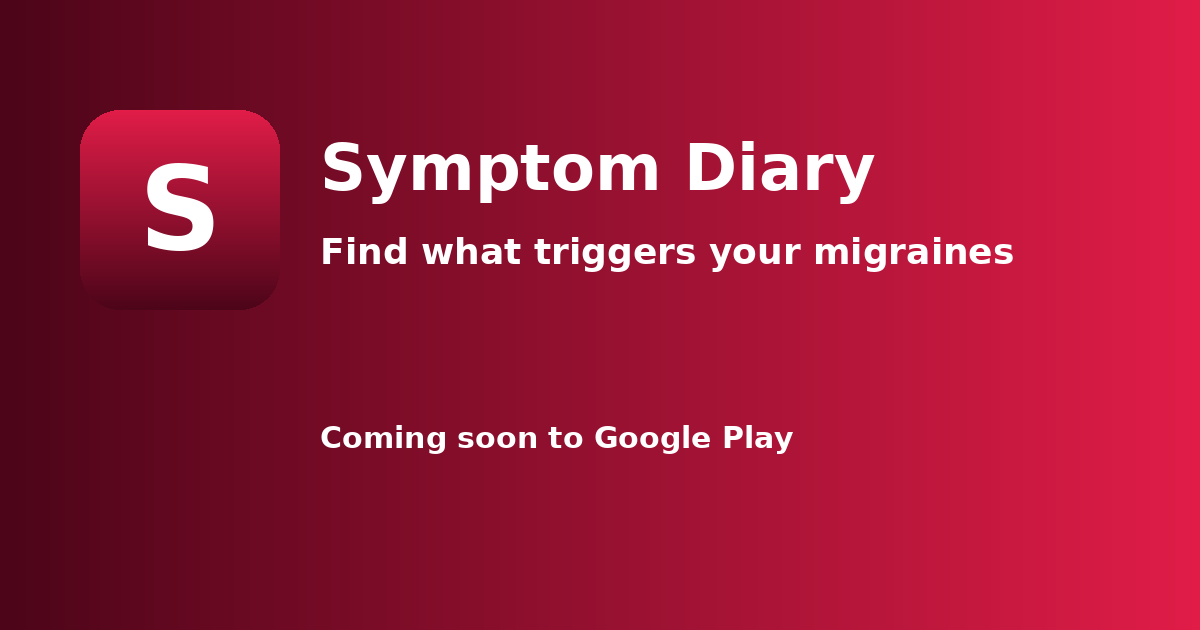
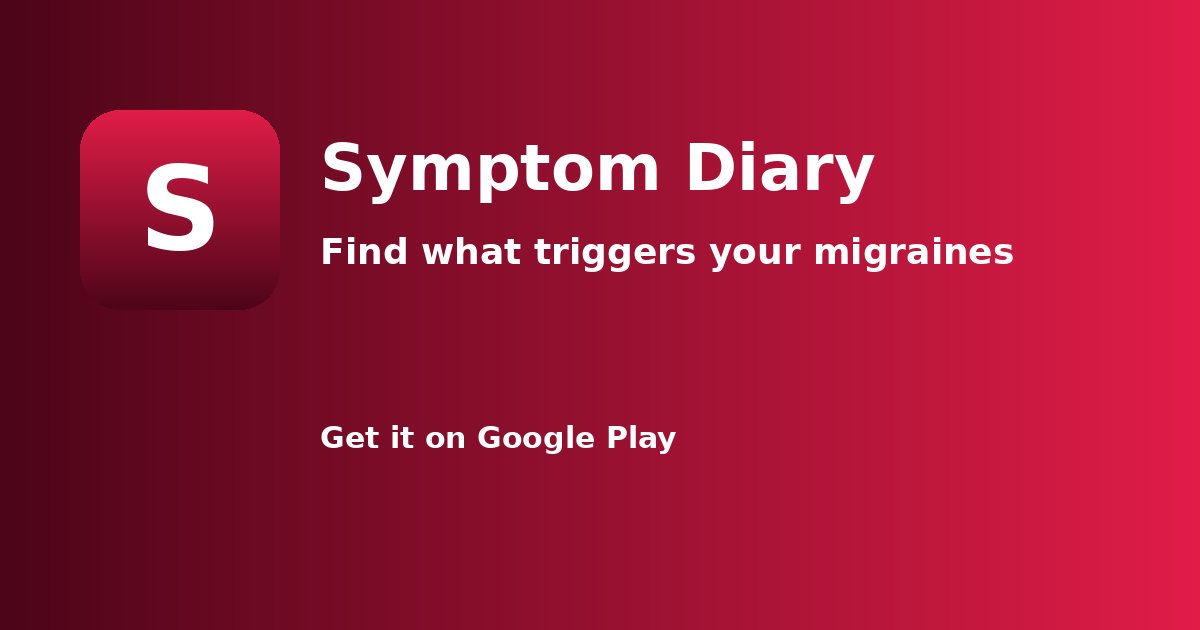
Add Get it on Google Play badge

Changed region(s): [[0.2775, 0.6635, 0.6783, 0.7238]]

diff --git a/index.html b/index.html
@@ -6,7 +6,7 @@
 <body><a class="skip" href="#main">Skip to content</a>
 <header class="top"><div class="wrap nav"><a class="brand" href="/symptom-diary-site/"><img src="/symptom-diary-site/img/icon-192.png" alt="" width="36" height="36"><span>Symptom Diary</span></a>
 <nav aria-label="Main"><a href="/symptom-diary-site/#features">Features</a><a href="/symptom-diary-site/#how">How it works</a><a href="/symptom-diary-site/#privacy">Privacy</a><a href="/symptom-diary-site/#faq">FAQ</a><a class="hide-sm" href="/symptom-diary-site/support/">Support</a></nav></div></header>
-<main id="main"><section class="hero"><div class="wrap"><div class="copy"><span class="kicker">Migraine and IBS diary</span><h1>Log it in one tap. See the pattern.</h1><p class="lede">Designed for mid-migraine use: big buttons, no typing. Log episodes, pain, triggers and medication, correlate them with your sleep and steps from Health Connect, and hand your doctor a clean PDF.</p><div class="ctas"><span class="btn soon" aria-label="Coming soon to Google Play"><span>Coming soon</span><small>to Google Play</small></span><a class="btn ghost" href="/symptom-diary-site/#features">See what it does</a></div></div>
+<main id="main"><section class="hero"><div class="wrap"><div class="copy"><span class="kicker">Migraine and IBS diary</span><h1>Log it in one tap. See the pattern.</h1><p class="lede">Designed for mid-migraine use: big buttons, no typing. Log episodes, pain, triggers and medication, correlate them with your sleep and steps from Health Connect, and hand your doctor a clean PDF.</p><div class="ctas"><a class="badge" href="https://play.google.com/store/apps/details?id=com.chartmann.symptomdiary" rel="noopener"><img src="/symptom-diary-site/img/play-badge.png" alt="Get it on Google Play" width="216" height="64"></a><a class="btn ghost" href="/symptom-diary-site/#features">See what it does</a></div></div>
 <div class="art"><img src="/symptom-diary-site/img/hero.png" alt="" width="520" height="520"></div></div></section>
 <section class="sec" id="features"><div class="wrap"><h2>What it does</h2><p class="sub">Generic health apps don&#x27;t correlate episodes with triggers. This one does, on your phone.</p><div class="grid"><div class="card"><div class="ic" aria-hidden="true"><svg width="26" height="26" viewBox="0 0 24 24" fill="none" stroke="currentColor" stroke-width="2" stroke-linecap="round" stroke-linejoin="round"><path d="M9 11V6a3 3 0 0 1 6 0v5"/><path d="M15 11V9a3 3 0 0 1 6 0v6a7 7 0 0 1-7 7h-1a7 7 0 0 1-7-7v-2a3 3 0 0 1 6 0"/><path d="M9 11a3 3 0 0 0-6 0v1"/></svg></div><h3>One-tap logging</h3><p>Big buttons for episode start and end, pain level, triggers and medication. Zero typing when it hurts.</p></div><div class="card"><div class="ic" aria-hidden="true"><svg width="26" height="26" viewBox="0 0 24 24" fill="none" stroke="currentColor" stroke-width="2" stroke-linecap="round" stroke-linejoin="round"><path d="M10 13a5 5 0 0 0 7.54.54l3-3a5 5 0 0 0-7.07-7.07l-1.72 1.71"/><path d="M14 11a5 5 0 0 0-7.54-.54l-3 3a5 5 0 0 0 7.07 7.07l1.71-1.71"/></svg></div><h3>Trigger correlation</h3><p>&quot;Your episodes follow poor sleep 68% of the time&quot;: simple on-device statistics, no cloud.</p></div><div class="card"><div class="ic" aria-hidden="true"><svg width="26" height="26" viewBox="0 0 24 24" fill="none" stroke="currentColor" stroke-width="2" stroke-linecap="round" stroke-linejoin="round"><path d="M12 3a6 6 0 0 0 9 9 9 9 0 1 1-9-9Z"/></svg></div><h3>Health Connect</h3><p>Read your sleep and steps from Health Connect with your permission to correlate them with episodes.</p></div><div class="card"><div class="ic" aria-hidden="true"><svg width="26" height="26" viewBox="0 0 24 24" fill="none" stroke="currentColor" stroke-width="2" stroke-linecap="round" stroke-linejoin="round"><line x1="18" y1="20" x2="18" y2="10"/><line x1="12" y1="20" x2="12" y2="4"/><line x1="6" y1="20" x2="6" y2="14"/><line x1="3" y1="20" x2="21" y2="20"/></svg></div><h3>Charts</h3><p>Episode frequency, severity trends and medication effectiveness over time.</p></div><div class="card"><div class="ic" aria-hidden="true"><svg width="26" height="26" viewBox="0 0 24 24" fill="none" stroke="currentColor" stroke-width="2" stroke-linecap="round" stroke-linejoin="round"><path d="M14.5 2H6a2 2 0 0 0-2 2v16a2 2 0 0 0 2 2h12a2 2 0 0 0 2-2V7.5L14.5 2z"/><polyline points="14 2 14 8 20 8"/><line x1="8" y1="13" x2="16" y2="13"/><line x1="8" y1="17" x2="16" y2="17"/></svg></div><h3>Doctor-ready PDF</h3><p>Export a clean summary for appointments.</p></div><div class="card"><div class="ic" aria-hidden="true"><svg width="26" height="26" viewBox="0 0 24 24" fill="none" stroke="currentColor" stroke-width="2" stroke-linecap="round" stroke-linejoin="round"><path d="M11 20A7 7 0 0 1 9.8 6.1C15.5 5 17 4.48 19 2c1 2 2 4.18 2 8 0 5.5-4.78 10-10 10Z"/><path d="M2 21c0-3 1.85-5.36 5.08-6C9.5 14.52 12 13 13 12"/></svg></div><h3>IBS / low-FODMAP mode</h3><p>Food and symptom logging for IBS with a low-FODMAP reference.</p></div></div></div></section>
 <section class="sec alt" id="video"><div class="wrap"><h2>See it in action</h2><p class="sub">A short walkthrough of the real app.</p><div class="video"><iframe src="https://www.youtube-nocookie.com/embed/c-IWx2e9zgI?rel=0" title="Symptom Diary promo video" loading="lazy" allow="accelerometer; autoplay; clipboard-write; encrypted-media; gyroscope; picture-in-picture; web-share" allowfullscreen referrerpolicy="strict-origin-when-cross-origin"></iframe></div></div></section>
@@ -17,7 +17,7 @@
 <section class="sec alt" id="privacy"><div class="wrap"><h2>Private by design</h2><p class="sub">Health data is sensitive. Your diary stays on your phone; Health Connect data is read only with your permission and only on the device. Nothing is shared unless you export a PDF or opt into backup.</p><p><a href="/symptom-diary-site/privacy/">Read the full privacy policy</a> &middot; <a href="/symptom-diary-site/delete/">How to delete your data</a></p></div></section>
 <section class="sec" id="languages"><div class="wrap"><h2>In your language</h2><p class="sub">On first launch you pick your language. The app downloads a free on-device translation pack from Google (ML Kit) for it and translates its screens on your phone; you can change the language any time in Settings. Translations are automatic, so a phrase may read a little differently than a native speaker would put it.</p></div></section>
 <section class="sec alt" id="faq"><div class="wrap narrow"><h2>FAQ</h2><details><summary>Is my health data uploaded?</summary><p>No. Episodes, triggers and Health Connect data stay on your phone. The only way data leaves is a PDF you export or the optional cloud backup if you turn it on.</p></details><details><summary>What does it read from Health Connect?</summary><p>Sleep sessions and steps, with your permission, to correlate with episodes. You can revoke access in Health Connect at any time.</p></details><details><summary>Is it medical advice?</summary><p>No. It is a diary and statistics tool, not a medical device, and it does not diagnose or treat anything.</p></details><details><summary>Does it support IBS?</summary><p>Yes: an IBS / low-FODMAP mode (Pro) adds food logging and a reference list.</p></details><details><summary>How do I get help?</summary><p>Open an issue on our <a href="https://github.com/chartmann1590/symptom-diary-site/issues/new">GitHub page</a>; please never post health details there.</p></details></div></section>
-<section class="sec cta-end"><div class="wrap"><h2>Start your diary before the next episode.</h2><div class="ctas"><span class="btn soon" aria-label="Coming soon to Google Play"><span>Coming soon</span><small>to Google Play</small></span></div></div></section></main>
+<section class="sec cta-end"><div class="wrap"><h2>Start your diary before the next episode.</h2><div class="ctas"><a class="badge" href="https://play.google.com/store/apps/details?id=com.chartmann.symptomdiary" rel="noopener"><img src="/symptom-diary-site/img/play-badge.png" alt="Get it on Google Play" width="216" height="64"></a></div></div></section></main>
 
 <!-- BEGIN AADS AD UNIT 2459512 -->
 <div class="aads-slot" style="width:100%;margin:24px auto 16px;text-align:center;clear:both">

diff --git a/style.css b/style.css
@@ -35,3 +35,4 @@ details{border:1px solid var(--line);border-radius:14px;background:#fff;padding:
 .foot{margin-top:auto;border-top:1px solid var(--line);padding:30px 0;color:var(--muted);font-size:14px}.foot-links{display:flex;flex-wrap:wrap;gap:16px;margin-bottom:10px}.foot-links a{font-weight:600}.tm{font-size:12px}
 
 .video{position:relative;width:100%;max-width:960px;margin:0 auto;aspect-ratio:16/9;border-radius:18px;overflow:hidden;background:#000;box-shadow:0 10px 30px rgba(15,23,42,.18)}.video iframe{position:absolute;inset:0;width:100%;height:100%;border:0}
+.badge{display:inline-block;line-height:0}.badge img{display:block;height:84px;width:auto}
